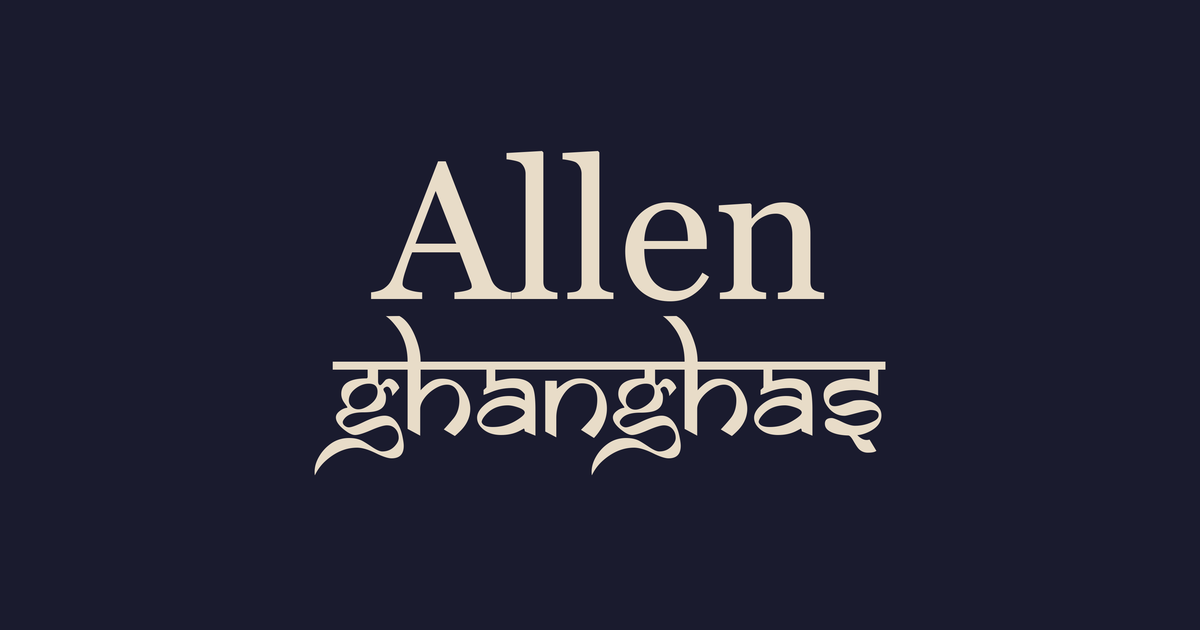
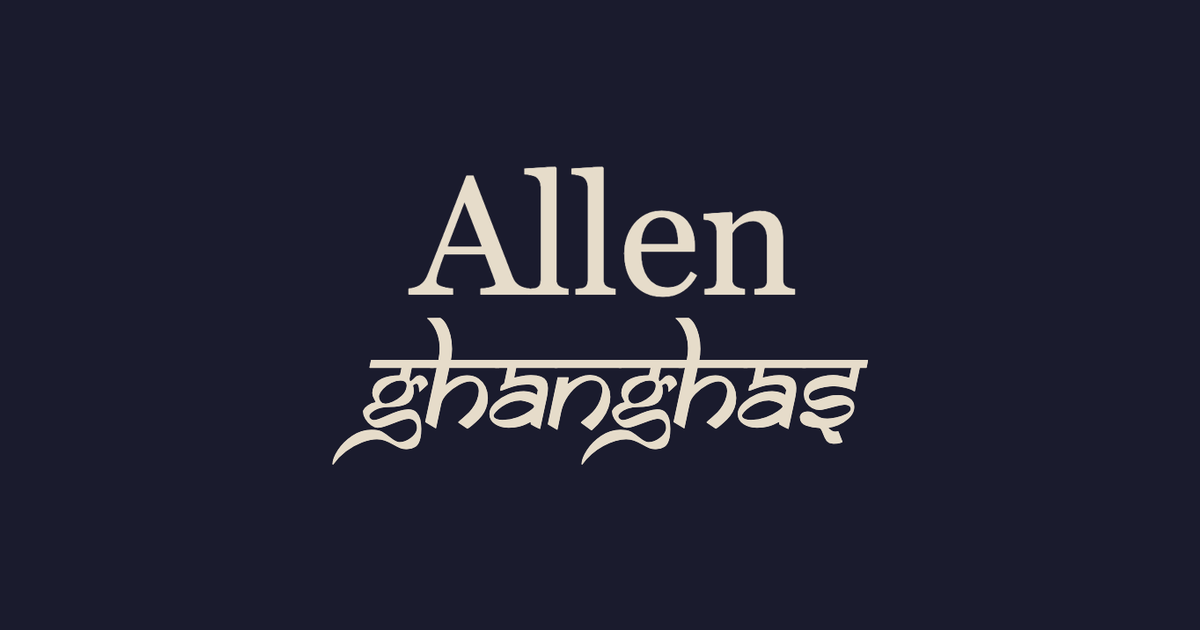
Request Meta preview suppression and use original homepage artwork

Changed region(s): [[0.2467, 0.2413, 0.74, 0.754]]

diff --git a/AGENTS.md b/AGENTS.md
@@ -1,0 +1,5 @@
+# Site identity
+
+The owner's name is **Allen Ghanghas**. **Allen Dior** is the site and online identity. Use the exact spelling Ghanghas in names, metadata, image text, and alternative text.
+
+For social previews, prefer the owner's original homepage artwork or supplied photos. The current preference is to suppress Meta link previews where possible and use the original homepage name artwork as a fallback.

diff --git a/content/_index.md b/content/_index.md
@@ -2,5 +2,5 @@
 title: "Allen Ghanghas"
 description: "AI agent developer and full-stack engineer in Kelowna, BC."
 images:
-  - "/images/social-preview-ghanghas.png"
+  - "/images/allen-ghanghas-homepage.png"
 ---
